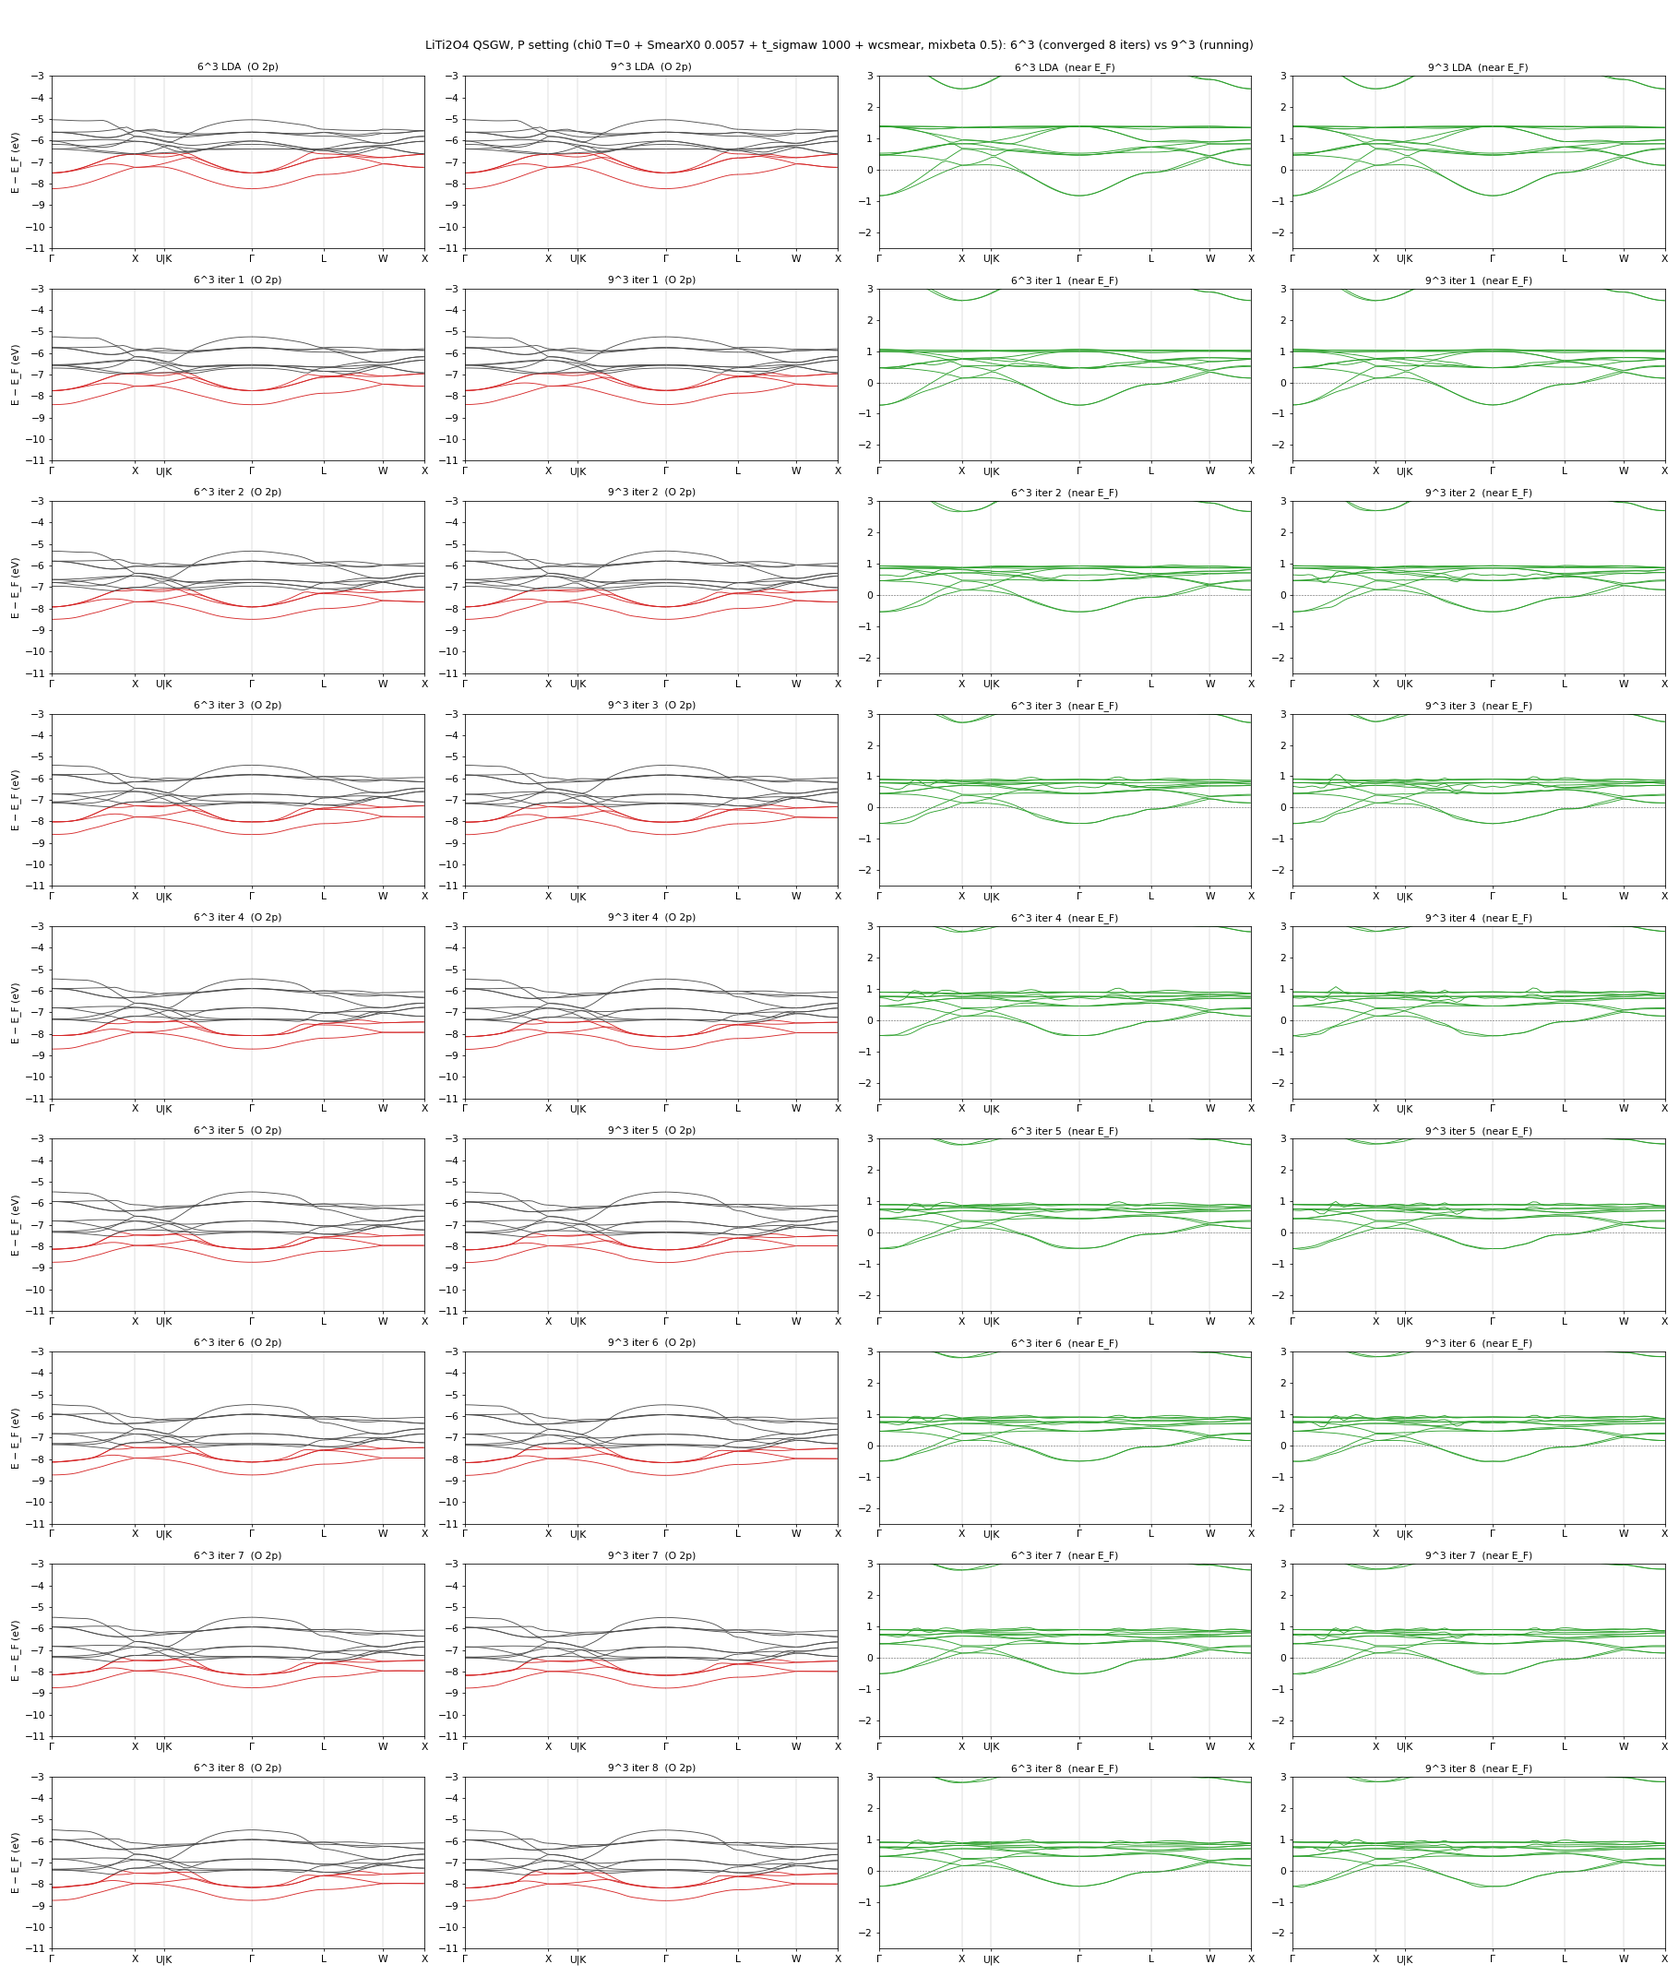
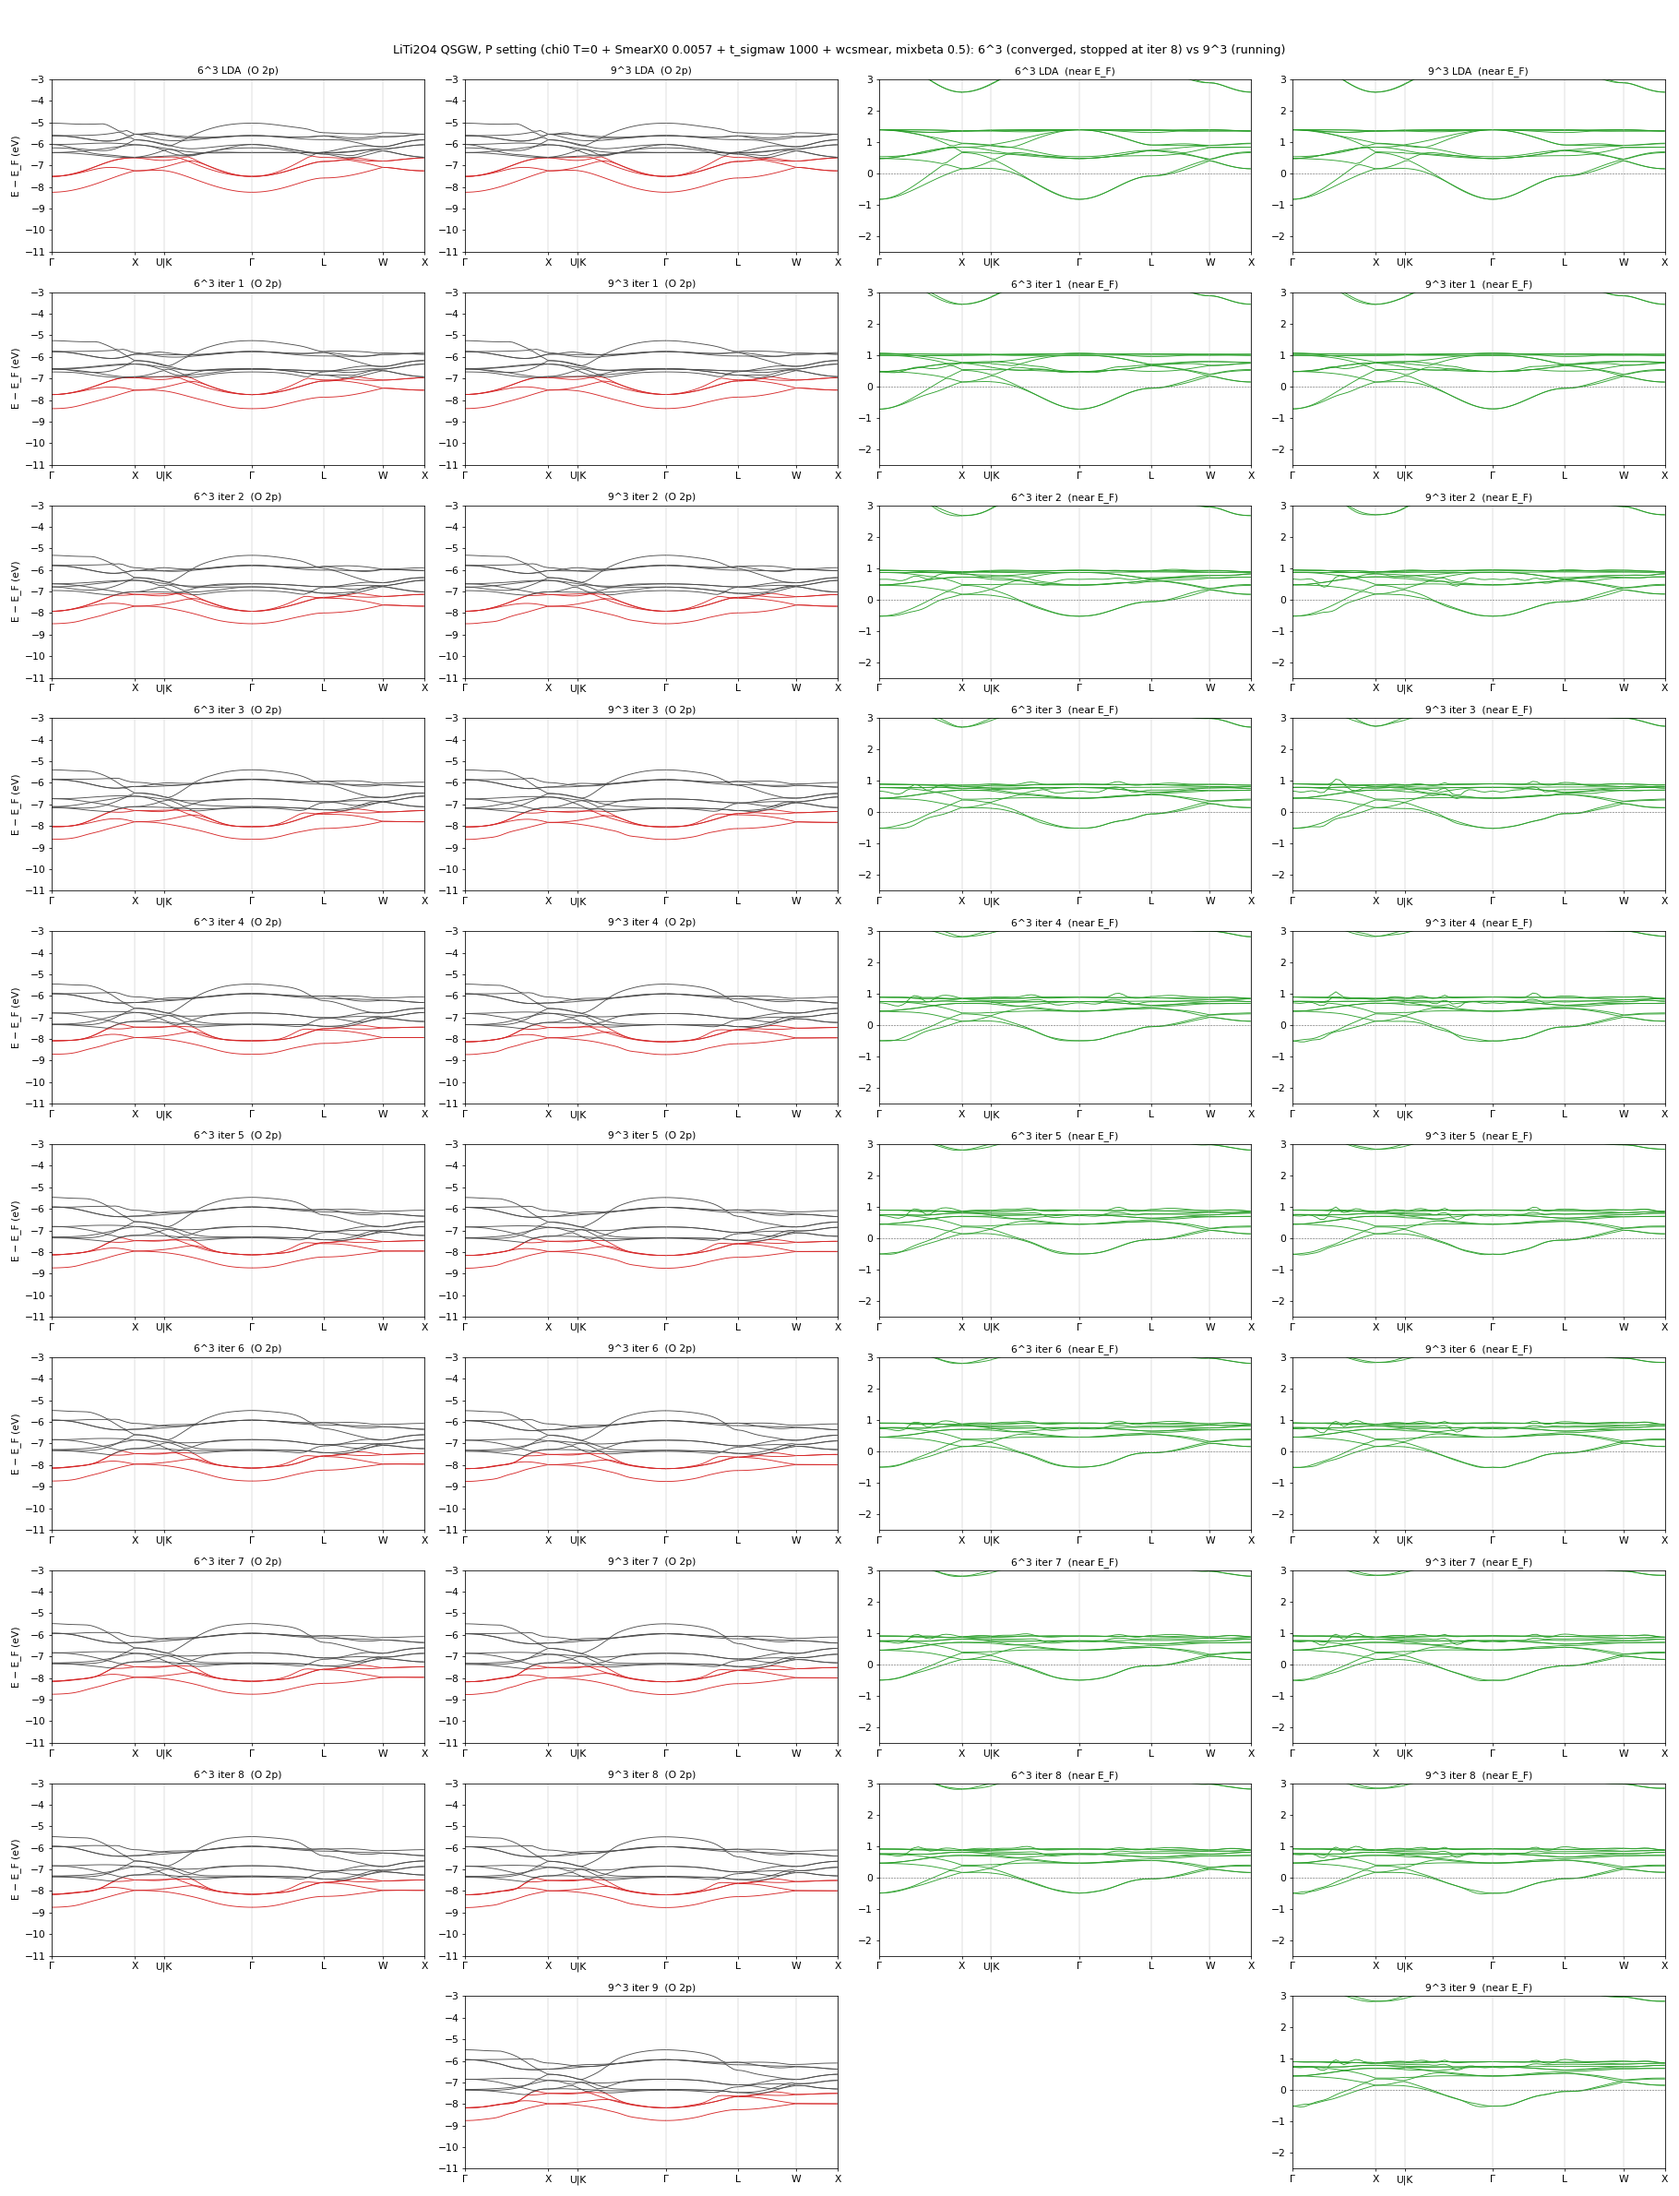
kBT: extend the 6^3 vs 9^3 row figure to iteration 9 (6^3 column ends at 8); drop the separate 9^3-only figure

diff --git a/Samples/kBT/kBT_research.md b/Samples/kBT/kBT_research.md
@@ -13,10 +13,7 @@
 
 ### 2026-09-23 00:35 9³ iter 9〜（当面継続、user 00:30）
 iter 9: o2p 7.5 / 11.4、t2g **4.3 / 8.0**、底 −8.766（2 反復続けて同じ値 = 底は止まった）。
-iter 9 以降は行並び図を分ける: `Samples/kBT/LiTi2O4/plots/P_999_rows_9on.png`（9³ のみ、列 = O 2p / E_F 近傍）。
-スクリプトは `Samples/kBT/LiTi2O4/plot_band_rows_one.py`（1 ラン版、引数 OUT TITLE DIR "9,10,..."）。
-
-![9^3 iterations 9 onward](LiTi2O4/plots/P_999_rows_9on.png)
+行並び図 `P_666_999_rows.png` はそのまま下に伸ばす（6³ の列は iter 8 で終わりなので 9 以降は空白、9³ だけが続く）。
 
 ### 2026-09-22 23:00 9³ iter 8: t2g 4.2 / 8.9 meV、底が初めて戻る（−8.767 → −8.766）
 6³ iter 8 と 9³ iter 8 の同一 k 経路での差（6³ − 9³、meV）:
